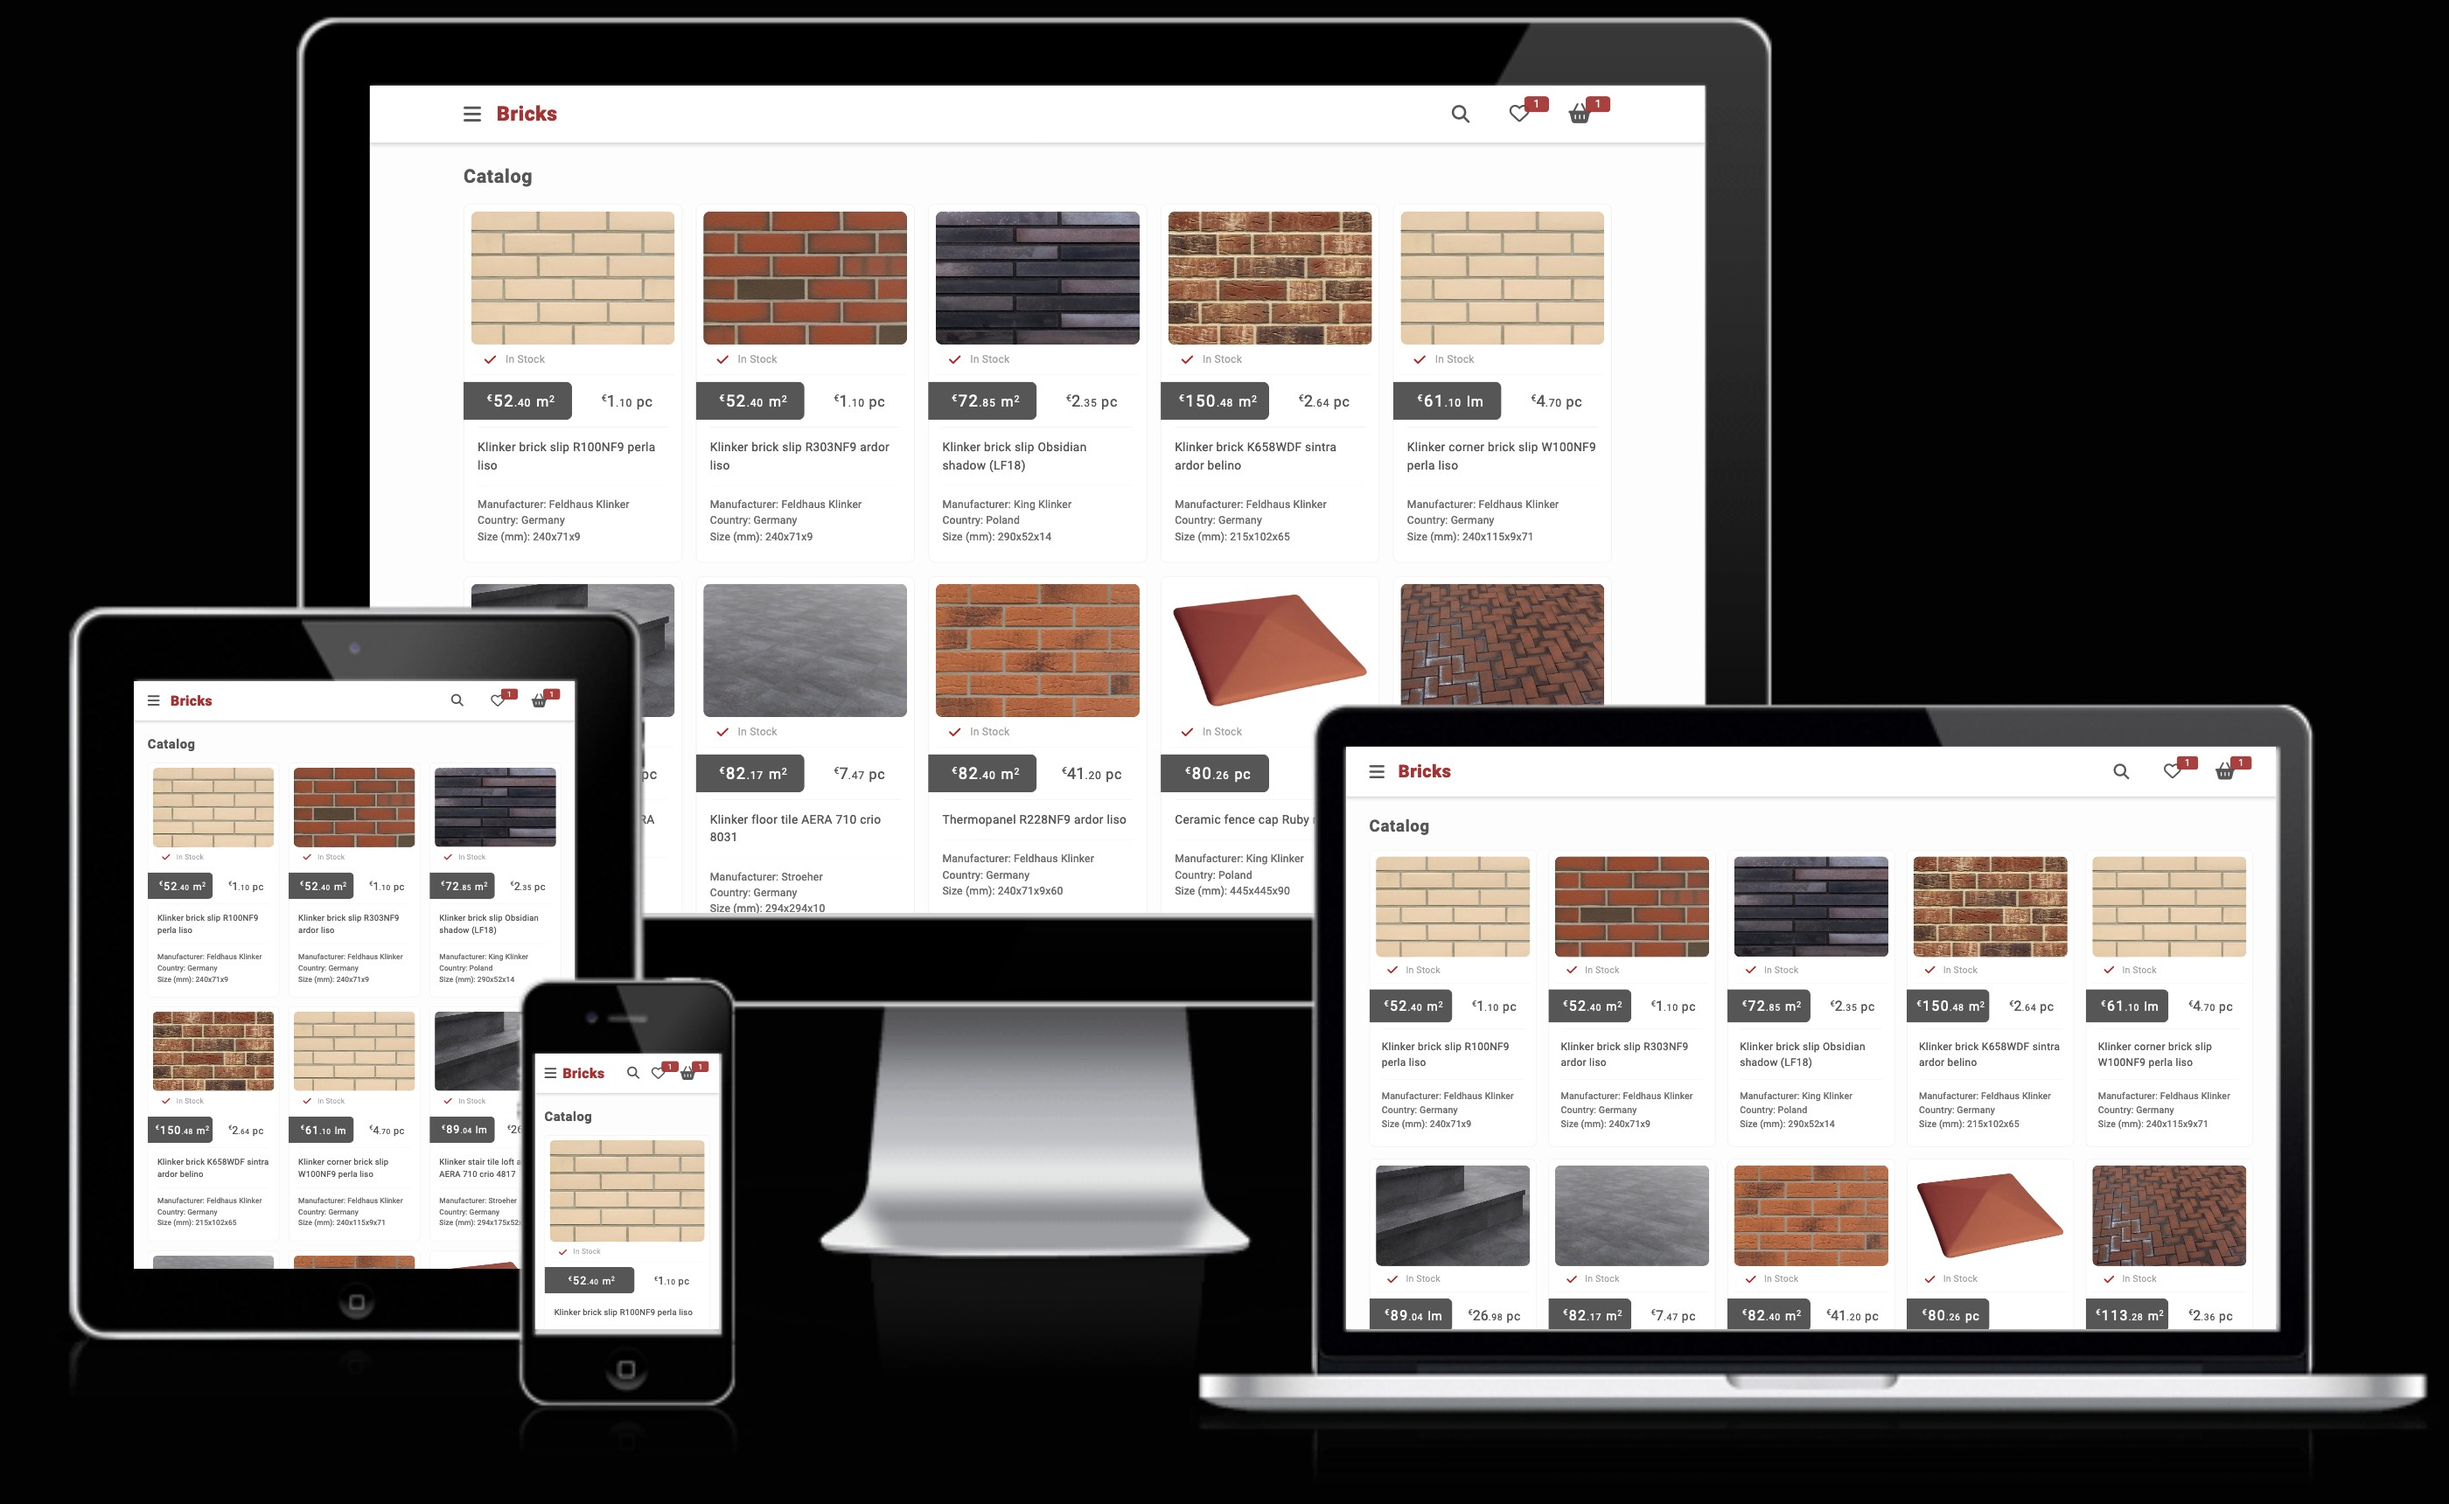
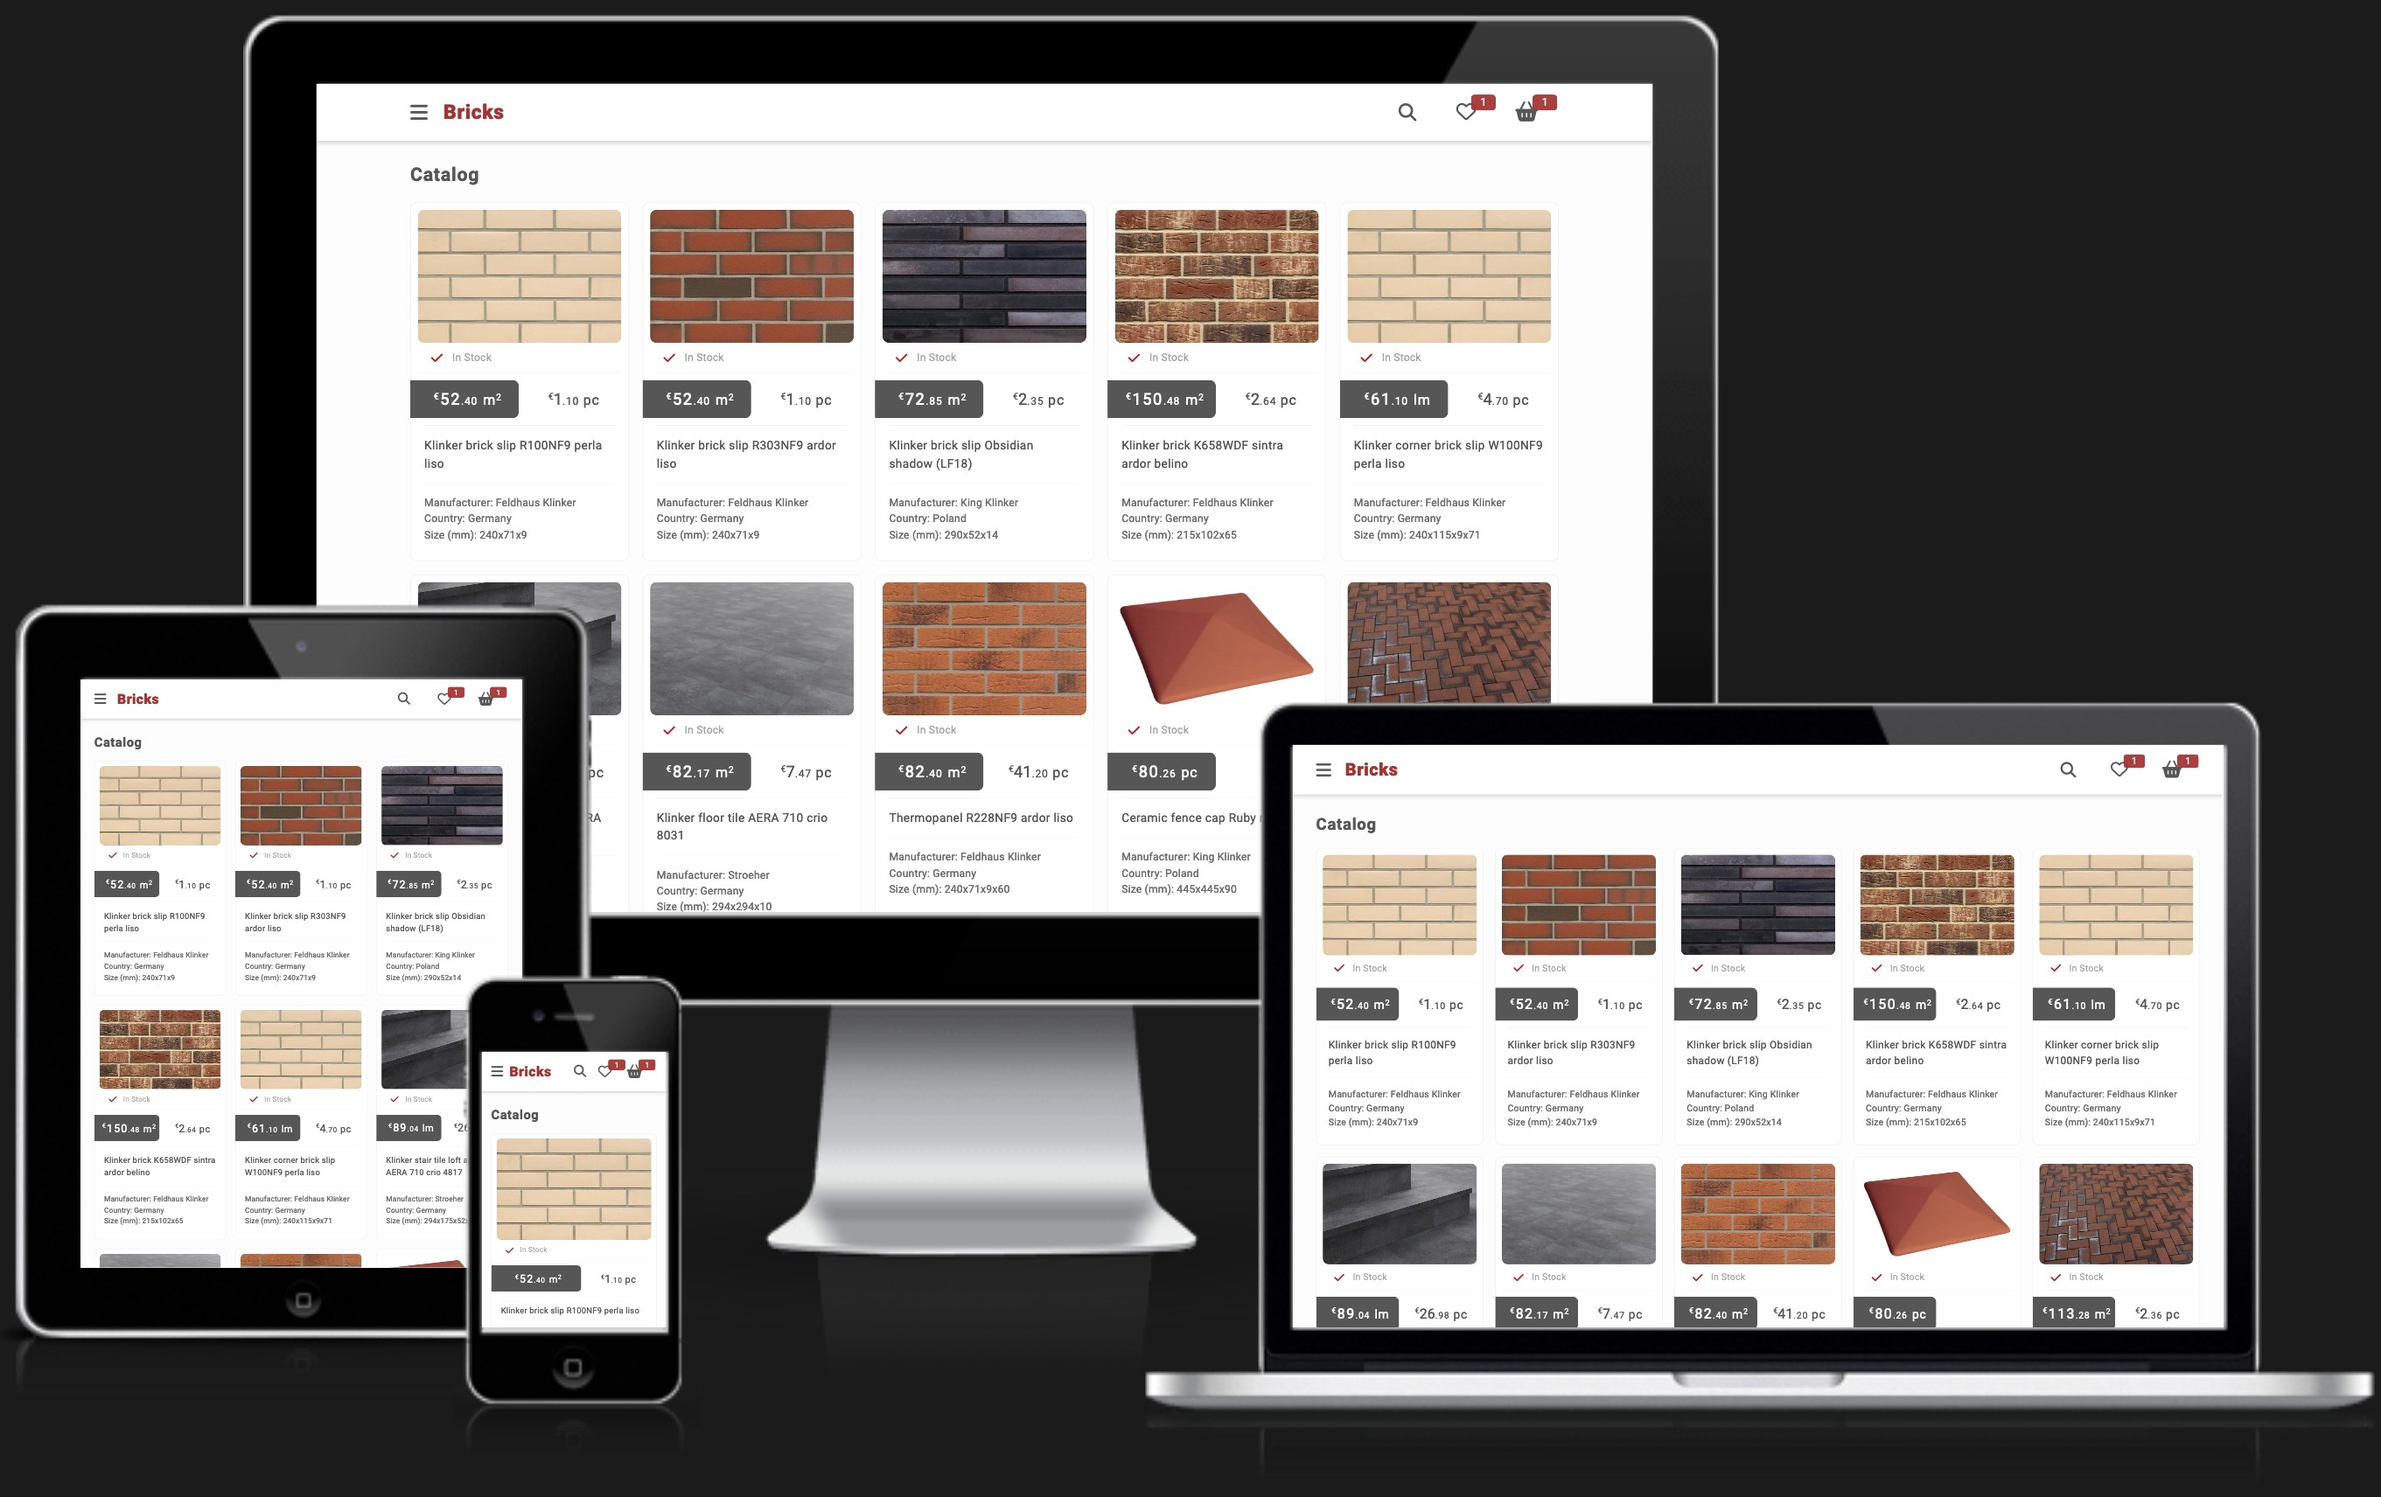
updated images and changed background

diff --git a/darkmode.js b/darkmode.js
@@ -4,7 +4,6 @@ const imageWhite = document.querySelector('.main__project__one__image--white');
 const imageBlack = document.querySelector('.main__project__one__image--black');
 
 
-
 colorSchemeToggle.addEventListener('pointerdown', () => {
   document.body.classList.toggle('darkmode');
   imageWhite.classList.toggle('main__project__one__image--hidden');
@@ -38,4 +37,3 @@ imageContSecond.addEventListener('load', () => {
   imageCont.classList.remove('cont_blurred');
   console.log('second');
 })
-

diff --git a/scss/_colors.scss b/scss/_colors.scss
@@ -3,13 +3,13 @@
   --color: #3c3c3c;
   --header-footer: hsla(258, 42%, 30%, 0.921);
   --icon-highlight: hsla(258, 42%, 30%, 0.954);
-  
+
   --text-highlight: hsla(257, 42%, 30%, 0.78);
   --text-highlight-color: #efefef;
 }
 
 .darkmode {
-  --background: #020202;
+  --background: #1b1b1b;
   --color: #efefef;
   --header-footer: hsla(258, 42%, 30%, 0.954);
   --icon-highlight: hsla(258, 37%, 36%, 0.885);

diff --git a/scss/styles.css b/scss/styles.css
@@ -9,7 +9,7 @@
 }
 
 .darkmode {
-  --background: #020202;
+  --background: #1b1b1b;
   --color: #efefef;
   --header-footer: hsla(258, 42%, 30%, 0.954);
   --icon-highlight: hsla(258, 37%, 36%, 0.885);
